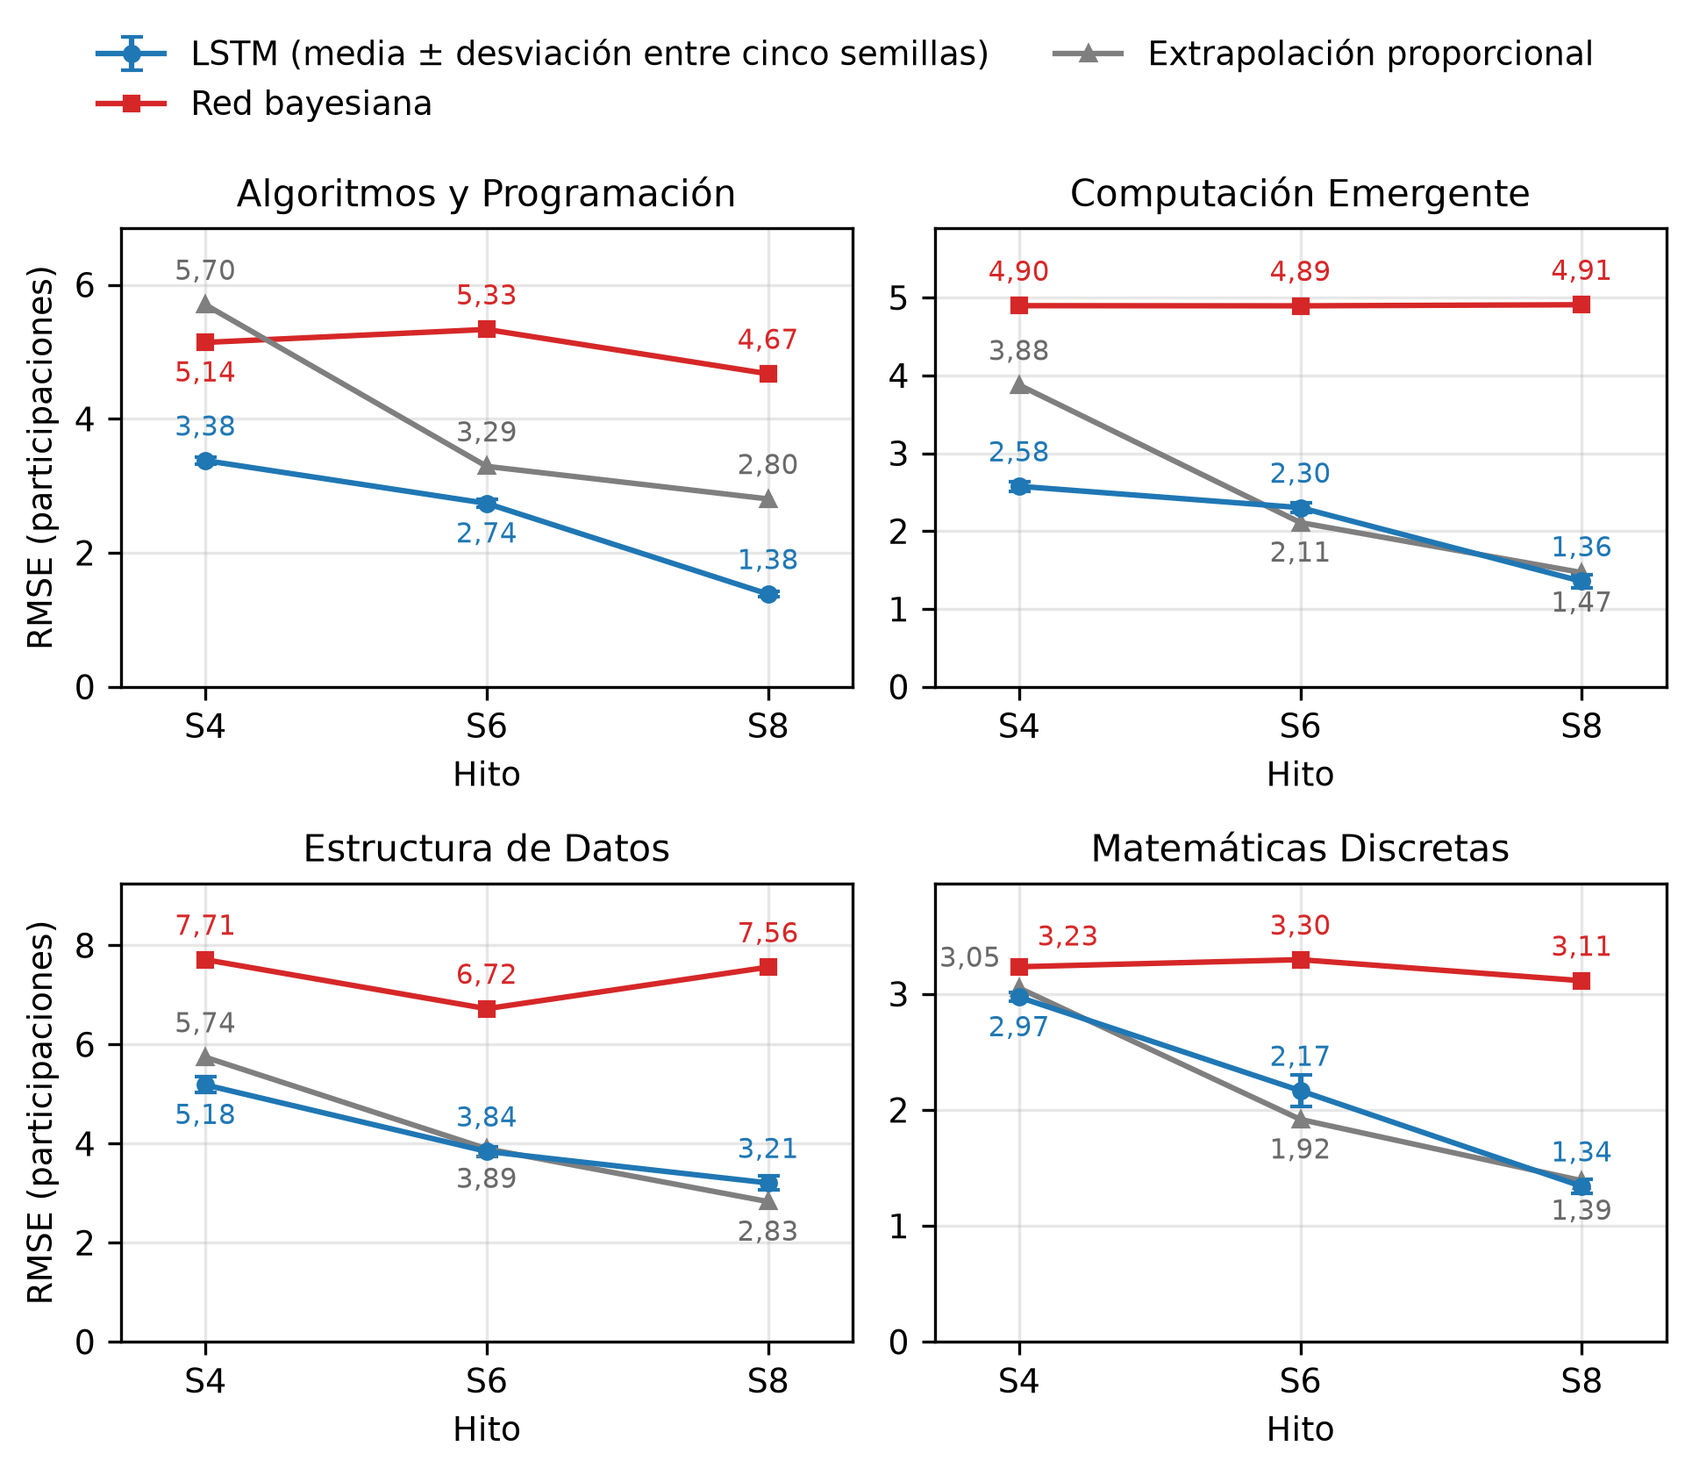
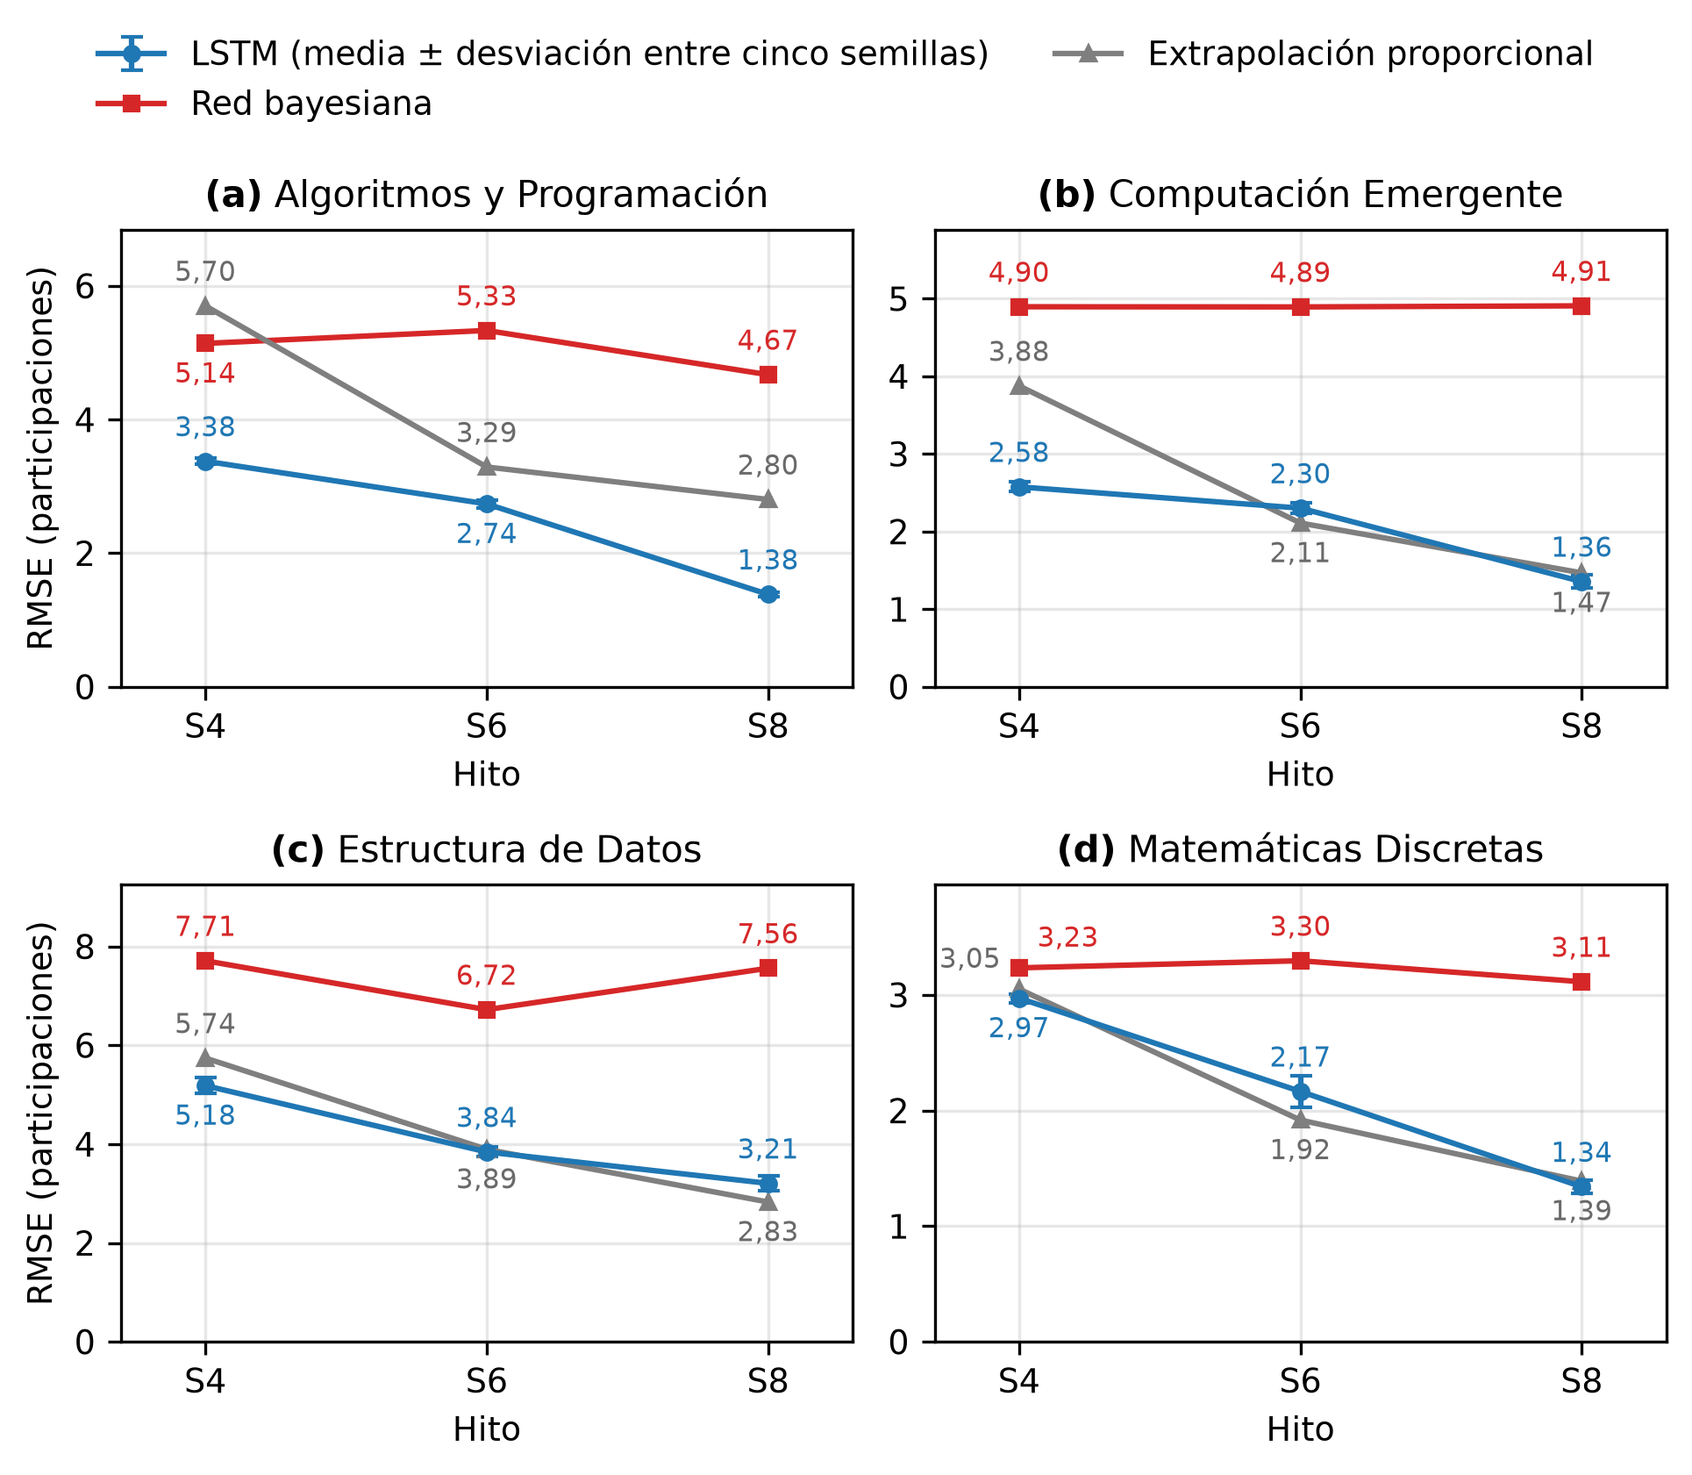
Figuras

diff --git a/4_red_bayesiana/exploracion/figura_cobertura_granularidad.py b/4_red_bayesiana/exploracion/figura_cobertura_granularidad.py
@@ -1,0 +1,148 @@
+"""Figura del Apéndice M: cobertura y granularidad de los datos cuantitativos
+(exploración inicial, Sprint 2).
+
+Panel (a): distribución de las 384 sesiones registradas según el campo
+`tipo_sesion` de la plantilla estándar. Las sesiones de contenido se separan
+de las demás; las demás se desglosan con los cuatro tipos que aparecen en los
+datos (evaluación, administrativa, sin clase y repaso), sin crear categorías
+nuevas. Una sesión es una combinación única de asignatura, trimestre, sección,
+semana y día de sesión.
+
+Panel (b): conteos de cada unidad de análisis. Son granularidades distintas de
+los mismos datos, no partes de un total, por eso se muestran como indicadores
+separados y no como un gráfico de partes.
+
+Lee `1_datos/estandarizados/` directamente y comprueba todas las cifras antes de
+graficar. No modifica ningún resultado.
+
+Uso:  python3 4_red_bayesiana/exploracion/figura_cobertura_granularidad.py
+Salida: figuras/apendice_M_exploracion_datos/figura_cobertura_granularidad.png (300 dpi)
+"""
+from pathlib import Path
+import glob
+
+import matplotlib
+matplotlib.use("Agg")
+import matplotlib.pyplot as plt
+from matplotlib.patches import FancyBboxPatch
+import numpy as np
+import pandas as pd
+
+RAIZ = Path(__file__).resolve().parent.parent.parent
+DESTINO = RAIZ / "figuras" / "apendice_M_exploracion_datos" / "figura_cobertura_granularidad.png"
+ANCHO_IN = 6.5
+AZUL = "#8fa8d8"        # mismo azul de las figuras de exploración (Figuras 3, 8 y 10)
+GRIS = "#d4d4d4"
+TINTA = "0.15"
+TINTA_SECUNDARIA = "0.35"
+
+NOMBRES_TIPO = {"evaluacion": "Evaluación", "administrativa": "Administrativa",
+                "sin_clase": "Sin clase", "repaso": "Repaso"}
+
+
+def _miles(n: int) -> str:
+    return f"{n:,}".replace(",", ".")
+
+
+def _porcentaje(p: float) -> str:
+    return f"{p:.2f}".replace(".", ",") + "%"
+
+
+def cifras() -> dict:
+    archivos = glob.glob(str(RAIZ / "1_datos" / "estandarizados" / "**" / "*.csv"), recursive=True)
+    df = pd.concat([pd.read_csv(f) for f in archivos], ignore_index=True)
+    sesiones = df.drop_duplicates(["materia", "trimestre", "seccion", "semana", "dia_sesion"])
+    tipos = sesiones.tipo_sesion.value_counts()
+    c = {
+        "filas": len(df),
+        "estudiante_semana": len(df.drop_duplicates(["materia", "trimestre", "seccion", "estudiante_id", "semana"])),
+        "registros": len(df.drop_duplicates(["materia", "trimestre", "seccion", "estudiante_id"])),
+        "secciones": len(df.drop_duplicates(["materia", "trimestre", "seccion"])),
+        "asignaturas": df.materia.nunique(),
+        "semanas": df.semana.nunique(),
+        "sesiones": len(sesiones),
+        "tipos": tipos,
+    }
+    assert set(tipos.index) == {"contenido", *NOMBRES_TIPO}, tipos.index.tolist()
+    assert (c["filas"], c["estudiante_semana"], c["registros"], c["secciones"]) == (11700, 6288, 524, 17)
+    assert (c["asignaturas"], c["semanas"]) == (4, 12)
+    assert c["estudiante_semana"] == c["registros"] * c["semanas"]
+    assert c["sesiones"] == 384 and tipos["contenido"] == 264
+    assert tipos.drop("contenido").to_dict() == {"evaluacion": 80, "administrativa": 21, "sin_clase": 10, "repaso": 9}
+    return c
+
+
+def graficar(c: dict) -> None:
+    plt.rcParams["font.family"] = "Arial"
+    figura = plt.figure(figsize=(ANCHO_IN, 3.2))
+    eje_a = figura.add_axes([0.0, 0.0, 0.47, 0.88])
+    eje_b = figura.add_axes([0.50, 0.0, 0.50, 0.88])
+    for x, letra, titulo in ((0.0, "a", f"Sesiones registradas ({c['sesiones']})"),
+                             (0.505, "b", "Unidades de análisis")):
+        figura.text(x, 0.97, rf"$\mathbf{{({letra})}}$ " + titulo, fontsize=10.5, color=TINTA,
+                    ha="left", va="top")
+
+    # Panel (a): sesiones de contenido frente a los otros tipos. La porción de contenido
+    # empieza arriba y avanza en sentido antihorario; la de los otros tipos queda a la derecha.
+    tipos = c["tipos"]
+    contenido, resto = int(tipos["contenido"]), int(tipos.drop("contenido").sum())
+    total = c["sesiones"]
+    centro = (-0.55, 0.0)
+    eje_a.pie([contenido, resto], colors=[AZUL, GRIS], startangle=90, counterclock=True, radius=1.0,
+              center=centro, wedgeprops={"edgecolor": "white", "linewidth": 2})
+    angulo_contenido = np.deg2rad(90 + 180 * contenido / total)
+    angulo_resto = np.deg2rad(90 + 360 * contenido / total + 180 * resto / total)
+    for angulo, r, texto in (
+            (angulo_contenido, 0.45, f"Contenido\n{contenido}\n({_porcentaje(100 * contenido / total)})"),
+            (angulo_resto, 0.62, f"{resto}\n({_porcentaje(100 * resto / total)})")):
+        eje_a.text(centro[0] + r * np.cos(angulo), centro[1] + r * np.sin(angulo), texto, ha="center",
+                   va="center", fontsize=9.5, color=TINTA, linespacing=1.2)
+    borde = (centro[0] + np.cos(angulo_resto), centro[1] + np.sin(angulo_resto))
+    desglose = "\n".join(f"{NOMBRES_TIPO[t]}: {int(tipos[t])}" for t in NOMBRES_TIPO)
+    eje_a.annotate(f"Otros tipos: {resto}\n" + desglose, xy=borde, xytext=(0.62, 0.55), ha="left",
+                   va="top", fontsize=9, color=TINTA, linespacing=1.3,
+                   arrowprops={"arrowstyle": "-", "color": "0.55", "linewidth": 0.8,
+                               "shrinkA": 0, "shrinkB": 0, "relpos": (0, 0.93)})
+    eje_a.set_xlim(-1.6, 1.75)
+    eje_a.set_ylim(-1.08, 1.08)
+    eje_a.set_aspect("equal")
+    eje_a.axis("off")
+
+    # Panel (b): una tarjeta por unidad de análisis, de la más fina a la más gruesa.
+    indicadores = [
+        (c["filas"], "filas estudiante-sesión", "una por estudiante en cada sesión"),
+        (c["estudiante_semana"], "observaciones estudiante-semana",
+         f"{c['registros']} registros por {c['semanas']} semanas"),
+        (c["registros"], "registros estudiante-sección", "un estudiante en una sección"),
+        (c["secciones"], "secciones", f"de {c['asignaturas']} asignaturas"),
+    ]
+    eje_b.set_xlim(0, 1)
+    eje_b.set_ylim(0, 1)
+    eje_b.axis("off")
+    alto, separacion = 0.22, 0.035
+    for i, (valor, unidad, detalle) in enumerate(indicadores):
+        y0 = 1 - (i + 1) * alto - i * separacion
+        eje_b.add_patch(FancyBboxPatch((0.01, y0), 0.98, alto, boxstyle="round,pad=0,rounding_size=0.025",
+                                       facecolor="#eef2fa", edgecolor=AZUL, linewidth=0.9))
+        medio = y0 + alto / 2
+        eje_b.text(0.04, medio, _miles(valor), ha="left", va="center", fontsize=14, fontweight="bold",
+                   color=TINTA)
+        eje_b.text(0.31, medio + 0.04, unidad, ha="left", va="center", fontsize=9, color=TINTA)
+        eje_b.text(0.31, medio - 0.045, detalle, ha="left", va="center", fontsize=8.5,
+                   color=TINTA_SECUNDARIA)
+
+    figura.canvas.draw()
+    limite = eje_b.transAxes.transform((0.985, 0))[0]
+    for texto in eje_b.texts:  # comprobación: ningún texto se sale de su tarjeta
+        assert texto.get_window_extent().x1 < limite, texto.get_text()
+    DESTINO.parent.mkdir(parents=True, exist_ok=True)
+    figura.savefig(DESTINO, dpi=300, bbox_inches="tight", facecolor="white")
+
+
+if __name__ == "__main__":
+    c = cifras()
+    print(f"filas estudiante-sesión {c['filas']}, estudiante-semana {c['estudiante_semana']}, "
+          f"registros {c['registros']}, secciones {c['secciones']}, sesiones {c['sesiones']}")
+    print(c["tipos"].to_string())
+    graficar(c)
+    print("guardado:", DESTINO)

diff --git a/3_lstm/adaptacion/figura_distribucion_objetivo.py b/3_lstm/adaptacion/figura_distribucion_objetivo.py
@@ -1,0 +1,80 @@
+"""Figura 4: distribución del total de participaciones del trimestre por asignatura, con los
+cuatro histogramas en una fila.
+
+Reproduce la figura de la celda 50 de `adaptacion_lstm_participaciones.ipynb` (mismos datos,
+mismos intervalos de dos participaciones, mismos colores y misma línea de la media), pero en
+una sola fila para ocupar menos alto en el informe. Se diseña a 7 pulgadas de ancho, con el área graficable de cada panel cuadrada, de modo que el texto conserva un tamaño de 9 a 10 pt al insertarla sin escalar,
+como el de la versión anterior escalada a ese mismo ancho. La información que antes iba en el
+título de cada panel (registros, porcentaje con cero y máximo) se muestra dentro del panel.
+
+Los datos salen de `5_prototipo/services/lstm_service._preparar_datos()`, la misma preparación
+del cuaderno; se comprueba que se obtienen los 524 registros y los valores de la figura anterior.
+
+Correr el archivo genera `figuras/metodo_datos_y_exploracion/figura_distribucion_objetivo.png`.
+"""
+from __future__ import annotations
+
+import sys
+from pathlib import Path
+
+import matplotlib
+matplotlib.use("Agg")
+import matplotlib.pyplot as plt
+import numpy as np
+
+RAIZ = Path(__file__).resolve().parent.parent.parent
+sys.path.insert(0, str(RAIZ / "5_prototipo" / "services"))
+import lstm_service  # noqa: E402
+
+SALIDA = RAIZ / "figuras" / "metodo_datos_y_exploracion" / "figura_distribucion_objetivo.png"
+NOMBRES = {"Algoritmos y Programación": "Algoritmos y\nProgramación",
+           "Computación Emergente": "Computación\nEmergente",
+           "Estructura de Datos": "Estructura de\nDatos",
+           "Matemáticas Discretas": "Matemáticas\nDiscretas"}
+# Valores de la versión anterior de la figura: (registros, % con cero, máximo, media).
+ESPERADO = {"Algoritmos y Programación": (147, 20, 24, 5.15), "Computación Emergente": (182, 42, 30, 3.18),
+            "Estructura de Datos": (108, 38, 44, 4.91), "Matemáticas Discretas": (87, 21, 13, 4.16)}
+
+
+def _coma(valor: float, decimales: int = 2) -> str:
+    return f"{valor:.{decimales}f}".replace(".", ",")
+
+
+def main() -> None:
+    datos = lstm_service._preparar_datos()
+    estatica, y = datos["estatica"], datos["y"]
+    assert len(y) == 524
+    materias = sorted(estatica.materia.unique())
+    colores = dict(zip(materias, plt.cm.tab10.colors))  # los mismos colores de la figura anterior
+    bins = np.arange(0, y.max() + 2, 2)
+
+    plt.rcParams.update({"font.size": 9})
+    figura, ejes = plt.subplots(1, 4, figsize=(7.0, 2.9), sharex=True, sharey=True)
+    for eje, materia in zip(ejes, materias):
+        valores = y[(estatica.materia == materia).to_numpy()]
+        n, cero, maximo, media = len(valores), (valores == 0).mean(), valores.max(), valores.mean()
+        assert (n, round(cero * 100), int(maximo), round(media, 2)) == ESPERADO[materia], materia
+        eje.hist(valores, bins=bins, color=colores[materia], alpha=0.85, edgecolor="white", linewidth=0.4)
+        eje.axvline(media, color="k", linestyle="--", linewidth=1.0)
+        eje.text(0.97, 0.97, f"{n} registros\n{cero:.0%} con cero\nmáximo {int(maximo)}\nmedia {_coma(media)}",
+                 transform=eje.transAxes, ha="right", va="top", fontsize=8.5, linespacing=1.25)
+        eje.set_title(NOMBRES[materia], fontsize=9.5)
+        eje.tick_params(labelsize=9)
+        eje.set_xticks([0, 20, 40])
+        eje.grid(alpha=0.3)
+        eje.set_box_aspect(1)  # área graficable cuadrada
+    ejes[0].set_ylabel("Registros estudiante-sección", fontsize=9)
+    figura.supxlabel("Total de participaciones del trimestre", fontsize=9.5, y=0.11)
+    figura.legend([plt.Line2D([0], [0], color="k", linestyle="--", linewidth=1.0)], ["Media"],
+                  loc="upper right", bbox_to_anchor=(1.0, 1.0), frameon=False, fontsize=8.5)
+    figura.tight_layout(rect=(0, 0, 1, 0.97), w_pad=0.6)
+    figura.canvas.draw()
+    for eje in ejes:  # comprobación: cada área graficable es un cuadrado
+        caja = eje.get_window_extent()
+        assert abs(caja.width - caja.height) < 1, (caja.width, caja.height)
+    figura.savefig(SALIDA, dpi=300, bbox_inches="tight", facecolor="white")
+    print("Figura guardada en", SALIDA)
+
+
+if __name__ == "__main__":
+    main()

diff --git a/6_evaluacion/codigo/anomalias_calendario.py b/6_evaluacion/codigo/anomalias_calendario.py
@@ -242,7 +242,7 @@ def figura_calendario(cal: pd.DataFrame) -> None:
 
 def figura_mecanismo(acumulada: pd.DataFrame, datos: pd.DataFrame) -> None:
     plt = _estilo()
-    figura, ejes = plt.subplots(1, 3, figsize=(6.5, 2.7), gridspec_kw={"width_ratios": [1.25, 1, 1]})
+    figura, ejes = plt.subplots(1, 3, figsize=(6.5, 3.6), gridspec_kw={"width_ratios": [1.25, 1, 1]})
     estilos = {"Algoritmos y Programación": ("-", "o"), "Computación Emergente": ("--", "s"),
                "Estructura de Datos": ("-.", "^"), "Matemáticas Discretas": (":", "D")}
     eje = ejes[0]
@@ -254,6 +254,23 @@ def figura_mecanismo(acumulada: pd.DataFrame, datos: pd.DataFrame) -> None:
     for hito in HITOS:
         eje.axvline(hito, color="0.8", linewidth=0.6, zorder=0)
         eje.text(hito, 1.03, f"S{hito}", ha="center", va="bottom", fontsize=7)
+    # Proporción acumulada en S4, S6 y S8 (citada en el texto), como tabla pequeña dentro del panel:
+    # una fila por asignatura con su símbolo de la leyenda, en la zona libre bajo la diagonal de
+    # reparto uniforme (abajo a la derecha), sin tapar ninguna línea ni marcador.
+    simbolos = {"Algoritmos y Programación": "●", "Computación Emergente": "■",
+                "Estructura de Datos": "▲", "Matemáticas Discretas": "◆"}
+    # x (alineada a la derecha) de cada hito; las líneas de S6 (x = 6) y S8 (x = 8) pasan por los huecos
+    # entre el símbolo y la primera columna, y entre la primera y la segunda columna.
+    columnas = {4: 7.75, 6: 9.6, 8: 11.45}
+    en_hitos = acumulada[acumulada.semana.isin(columnas)].pivot(index="materia", columns="semana",
+                                                                 values="proporcion_acumulada")
+    for hito, x in columnas.items():
+        eje.text(x, 0.40, f"S{hito}", ha="right", va="center", fontsize=6.5)
+    for i, materia in enumerate(sorted(simbolos, key=lambda m: -en_hitos.loc[m, 4])):
+        y = 0.32 - 0.08 * i
+        eje.text(5.4, y, simbolos[materia], ha="left", va="center", fontsize=6.5)
+        for hito, x in columnas.items():
+            eje.text(x, y, f"{en_hitos.loc[materia, hito] * 100:.0f}%", ha="right", va="center", fontsize=6.5)
     eje.set_xticks(range(1, 13))
     eje.set_xticklabels([str(i) if i % 2 == 0 else "" for i in range(1, 13)])
     eje.set_xlim(0, 12.3)
@@ -284,7 +301,7 @@ def figura_mecanismo(acumulada: pd.DataFrame, datos: pd.DataFrame) -> None:
         for lado in ("top", "right"):
             eje.spines[lado].set_visible(False)
     manejadores, etiquetas = ejes[1].get_legend_handles_labels()
-    figura.tight_layout(rect=(0, 0, 1, 0.80), w_pad=1.0)
+    figura.tight_layout(rect=(0, 0, 1, 0.85), w_pad=1.0)
     lineas, nombres = ejes[0].get_legend_handles_labels()
     figura.legend(lineas, nombres, loc="upper left", bbox_to_anchor=(0.0, 1.0), ncol=2, frameon=False,
                   fontsize=6.5, handlelength=2.4, columnspacing=1.0,

diff --git a/6_evaluacion/codigo/figura_comparacion_modelos.py b/6_evaluacion/codigo/figura_comparacion_modelos.py
@@ -28,6 +28,8 @@ MATERIAS: tuple[str, ...] = (
     "Algoritmos y Programación", "Computación Emergente",
     "Estructura de Datos", "Matemáticas Discretas",
 )
+# Etiqueta de cada panel, en orden de lectura (fila por fila); el texto remite a ellas (p. ej., Figura 19.b).
+LETRAS: tuple[str, ...] = ("a", "b", "c", "d")
 HITOS: tuple[int, ...] = (4, 6, 8)
 TAMANO_TEXTO = 9
 TAMANO_VALOR = 7.5
@@ -115,14 +117,14 @@ if __name__ == "__main__":
 
     plt.rcParams.update({"font.size": TAMANO_TEXTO})
     figura, ejes = plt.subplots(2, 2, figsize=(6.5, 5.6))
-    for eje, materia in zip(ejes.flat, MATERIAS):
+    for eje, materia, letra in zip(ejes.flat, MATERIAS, LETRAS):
         g = datos[datos["materia"] == materia].sort_values("hito")
         eje.errorbar(g["hito"], g["rmse_lstm"], yerr=g["rmse_lstm_desv"], marker="o", markersize=4,
                      color="tab:blue", capsize=3, label="LSTM (media ± desviación entre cinco semillas)")
         eje.plot(g["hito"], g["rmse_bayes"], marker="s", markersize=4, color="tab:red", label="Red bayesiana")
         eje.plot(g["hito"], g["rmse_extrapolacion"], marker="^", markersize=4, color="tab:gray",
                  label="Extrapolación proporcional")
-        eje.set_title(materia, fontsize=TAMANO_TEXTO + 1)
+        eje.set_title(rf"$\mathbf{{({letra})}}$ {materia}", fontsize=TAMANO_TEXTO + 1)  # letra en negrita
         eje.set_xticks(HITOS)
         eje.set_xticklabels([f"S{h}" for h in HITOS])
         eje.set_xlim(3.4, 8.6)

diff --git a/figuras/INDICE.md b/figuras/INDICE.md
@@ -16,7 +16,7 @@ desactualizados.
 | 1 | Hoja "Estandar" de participaciones | No está en el repositorio: captura de la plantilla | `1_datos/plantillas/ESTANDAR_Participaciones.xlsx` |
 | 2 | Hoja "Cronograma" de participaciones | No está en el repositorio: captura de la plantilla | `1_datos/plantillas/ESTANDAR_Participaciones.xlsx` |
 | 3 | Tamaño de las secciones | `metodo_datos_y_exploracion/figura_tamano_grupo_exploracion.png` | `4_red_bayesiana/exploracion/figura_tamano_grupo_exploracion.py` |
-| 4 | Total de participaciones por asignatura | `metodo_datos_y_exploracion/figura_distribucion_objetivo.png` | `3_lstm/adaptacion/adaptacion_lstm_participaciones.ipynb` |
+| 4 | Total de participaciones por asignatura | `metodo_datos_y_exploracion/figura_distribucion_objetivo.png` | `3_lstm/adaptacion/figura_distribucion_objetivo.py` (versión en una fila; la celda 50 del cuaderno genera la versión 2 × 2 anterior) |
 | 5 | Participación semanal según año académico | `metodo_datos_y_exploracion/figura_participacion_semanal_anio_academico.png` | Sin script en el repositorio |
 | 6 | Acumulado frente al total del trimestre | `metodo_datos_y_exploracion/figura_correlacion_acumulado_total.png` | `3_lstm/adaptacion/adaptacion_lstm_participaciones.ipynb` |
 | 7 | Trayectoria de los tres casos atípicos | `metodo_datos_y_exploracion/figura_atipicos_dispersion.png` | `3_lstm/adaptacion/adaptacion_lstm_participaciones.ipynb` |
@@ -70,6 +70,12 @@ Las capturas las genera `5_prototipo/capturas_apendice_i.js` desde la interfaz e
 | Figura | Título abreviado | Archivo | Generada por |
 |---|---|---|---|
 | K1 | Predicciones con la misma evidencia y pesos de la primera capa LSTM | `apendice_K_explicabilidad_lstm/figura_explicabilidad_lstm.png` | `3_lstm/adaptacion/explicabilidad_lstm.py` |
+
+## Apéndice M (exploración inicial de los datos)
+
+| Figura | Título abreviado | Archivo | Generada por |
+|---|---|---|---|
+| M1 | Cobertura y granularidad de los datos cuantitativos | `apendice_M_exploracion_datos/figura_cobertura_granularidad.png` | `4_red_bayesiana/exploracion/figura_cobertura_granularidad.py` |
 
 ## `no_incluidas_en_informe/`
 
